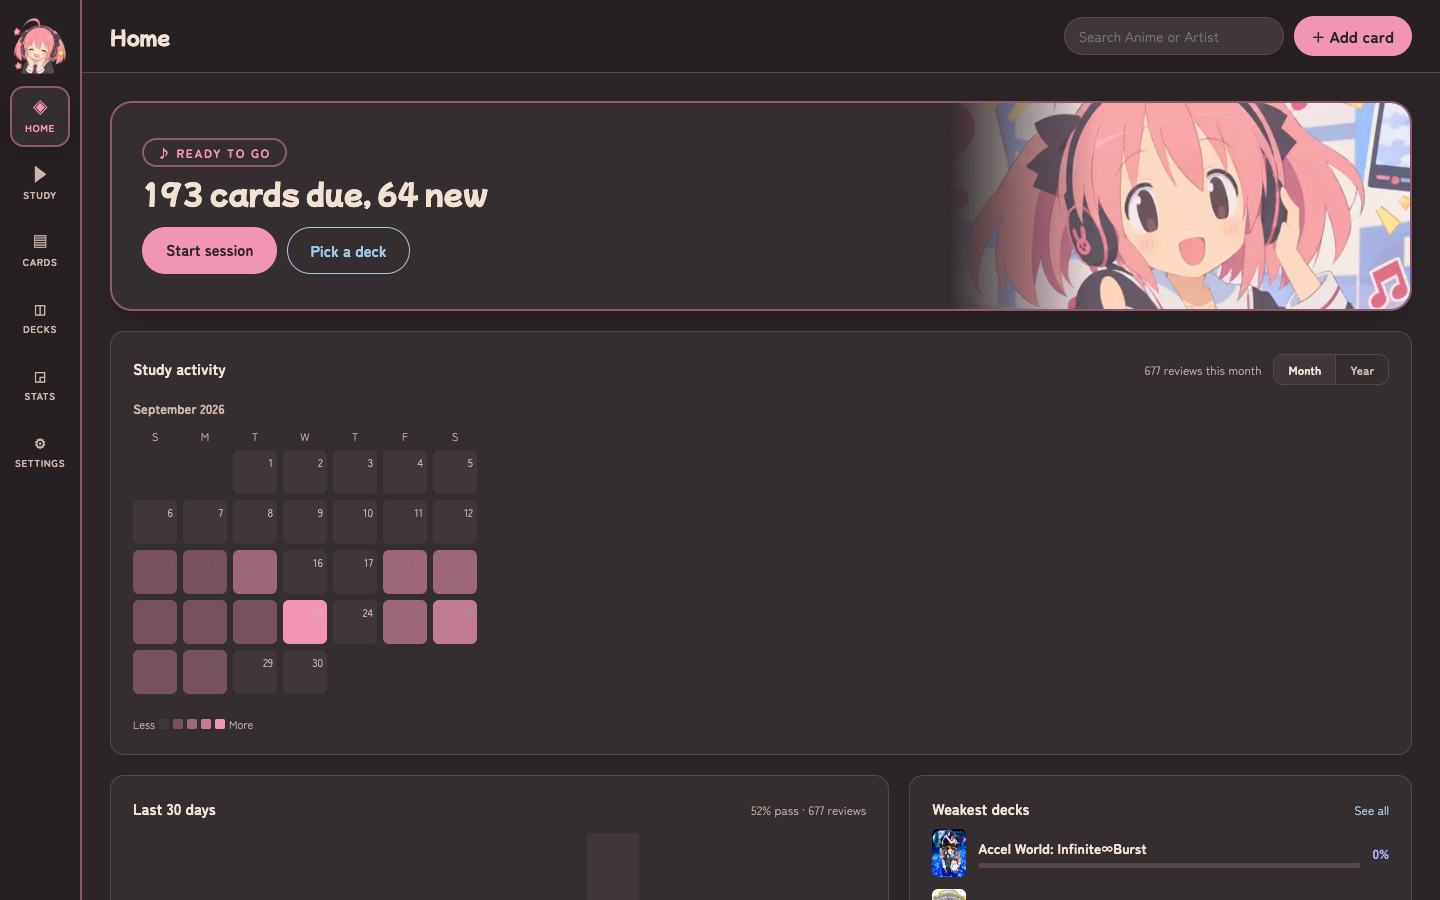
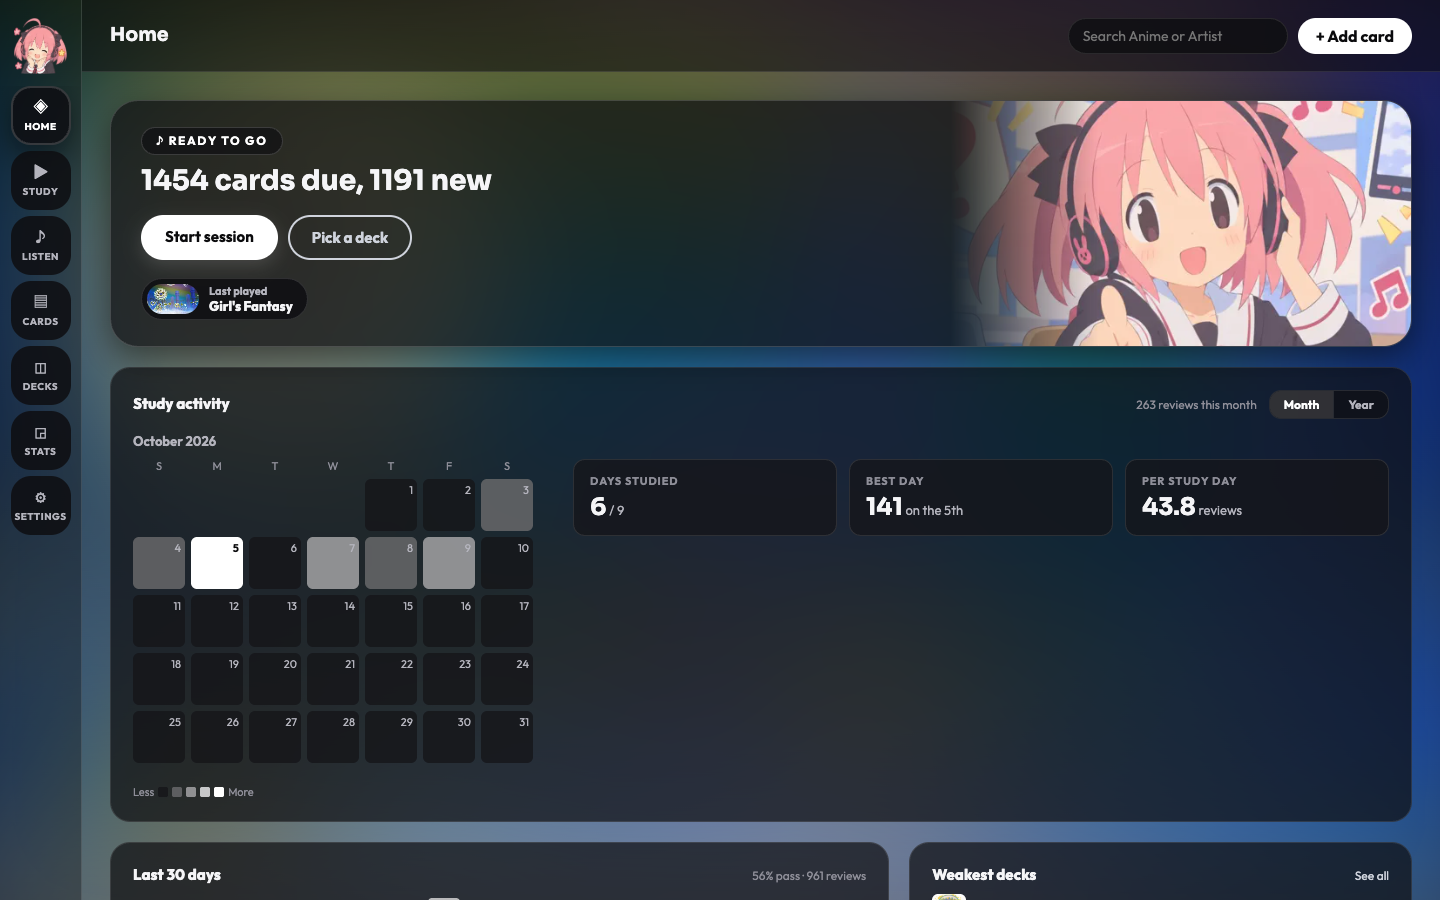
docs: refresh the README with new screenshots and Listen mode

diff --git a/README.md b/README.md
@@ -19,7 +19,7 @@ Everything runs on your own computer. No account, no cloud, just you and your
 playlist.
 
 <p align="center">
-  <img src="docs/screenshots/home.png" width="1000" alt="Home dashboard showing cards due today and a month of study activity">
+  <img src="docs/screenshots/home.png" width="1000" alt="Home dashboard with Kai, the cards due today, and a month of study activity">
 </p>
 
 ## How it works
@@ -42,10 +42,29 @@ you want to go by ear alone, or type your answers if you want it to feel like
 the real game.
 
 <p align="center">
-  <img src="docs/screenshots/study.png" width="1000" alt="Study screen playing an anime ending, with the revealed answer beside it">
+  <img src="docs/screenshots/study.png" width="1000" alt="Study screen playing an anime clip, with a Now playing bar and Missed and Got it buttons">
 </p>
 
-### 3. Focus on what you want
+Press `D`, or click the empty space beside the video, to flip the picture over
+and see the answer, the cover art, notes, and links out to AniList and
+AnimeThemes.
+
+<p align="center">
+  <img src="docs/screenshots/study-details.png" width="1000" alt="The flipped Study card showing the cover art, titles, song, artist, and theme">
+</p>
+
+### 3. Just listen
+
+Not in the mood to grade yourself? **Listen** plays a deck, or your whole
+library, in order or shuffled, with the same player and Hide Video and Hide Info
+toggles but no scoring. It's handy for warming up or hosting a guessing round
+without the party server.
+
+<p align="center">
+  <img src="docs/screenshots/listen.png" width="1000" alt="Listen mode playing a song with its title, artist, and a song counter">
+</p>
+
+### 4. Focus on what you want
 
 Your songs sort themselves into decks by anime and by artist, and you can make
 your own too. Want to drill one show before a themed lobby? Just study that
@@ -55,7 +74,7 @@ deck.
   <img src="docs/screenshots/decks.png" width="1000" alt="Deck browser showing a grid of anime cover art">
 </p>
 
-### 4. Watch yourself improve
+### 5. Watch yourself improve
 
 Keep an eye on your pass rate, your streak, and what's coming up next, so you
 can see it actually sticking.
